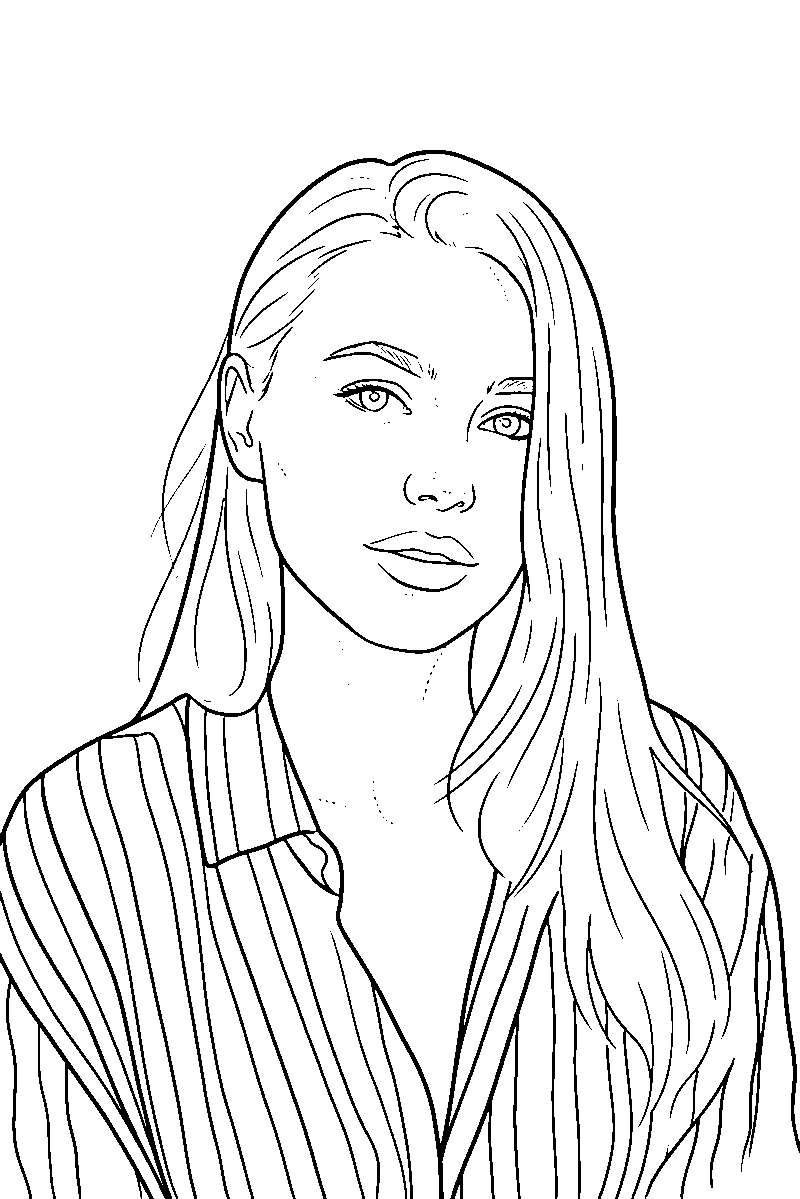
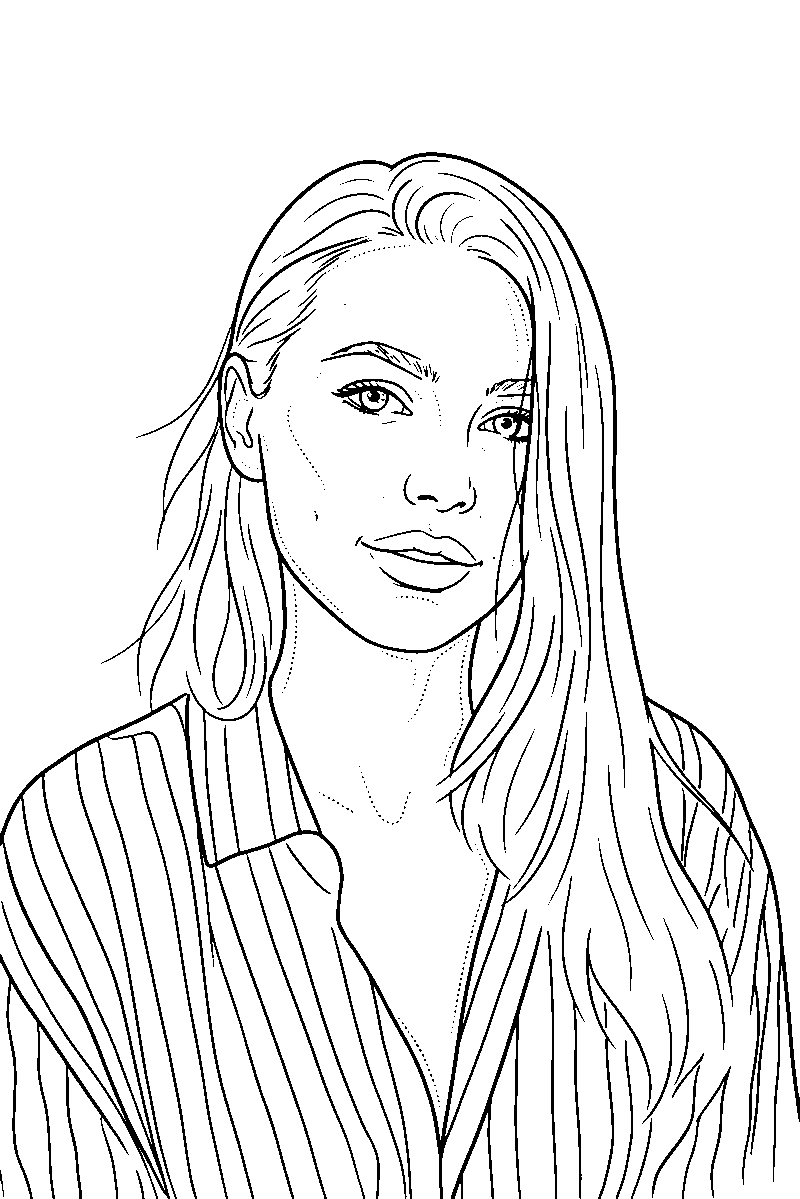
auto-commit for 1afdc5a2-3a2c-4278-aeb6-7df4dd373ddc

diff --git a/backend/server.py b/backend/server.py
@@ -2157,10 +2157,11 @@ FIDELITY — strict (applies to all detail levels):
 - NO solid black fills ANYWHERE. This applies even to features that appear dark in the source image: eyebrows, pupils, irises, nostrils, eye liner, hair shadows, and any deep shadow area MUST be drawn as OUTLINES ONLY, never filled with black or any solid color
 - NO crosshatching or sketch-style shading
 - LINE WEIGHT (applies to all detail levels — extremely important for readable tattoo transfer):
+  • This rule is about STROKE THICKNESS ONLY — it does NOT reduce the NUMBER, DENSITY, or COUNT of marks, dots, or contour lines. Keep the full amount of detail called for by the DETAIL LEVEL above; just draw each mark thinner.
   • Use the THINNEST possible fine line weight for ALL facial features: eyebrows, eyelids, eyelashes, iris, pupil, nose bridge, nostrils, lip edges, lip creases. These are small, tightly-spaced areas and thicker lines will bleed together and hide the true form when applied to skin — the goal is to reveal the form, not bury it under thick outlines
   • Use the THINNEST possible fine line weight for ALL interior hair texture / flow lines — noticeably finer than the hair silhouette; hair strands packed close together must remain clearly individual and not merge into each other
   • Main subject silhouette / outer body outline may be slightly heavier (thin-to-medium) but still never thick or bold
-  • Rule of thumb: if a region is small or has many lines near each other (hair interior, eyes, lips, nose), use the finest weight; only the outermost body/subject silhouette may be marginally heavier
+  • Rule of thumb: if a region is small or has many lines near each other (hair interior, eyes, lips, nose), use the finest stroke weight; only the outermost body/subject silhouette may be marginally heavier. Facial shading dots / contour guides on cheeks, jawline, nose bridge, brow ridges, under the eyes, and lip volumes must still be drawn in full — just at the thinnest weight.
 
 Style: Professional tattoo stencil suitable for thermal transfer paper"""
 
@@ -2347,10 +2348,11 @@ FIDELITY — strict (applies to all detail levels):
 - NO solid black fills ANYWHERE. This applies even to features that appear dark in the source image: eyebrows, pupils, irises, nostrils, eye liner, hair shadows, and any deep shadow area MUST be drawn as OUTLINES ONLY, never filled with black or any solid color
 - NO crosshatching or sketch-style shading
 - LINE WEIGHT (applies to all detail levels — extremely important for readable tattoo transfer):
+  • This rule is about STROKE THICKNESS ONLY — it does NOT reduce the NUMBER, DENSITY, or COUNT of marks, dots, or contour lines. Keep the full amount of detail called for by the DETAIL LEVEL above; just draw each mark thinner.
   • Use the THINNEST possible fine line weight for ALL facial features: eyebrows, eyelids, eyelashes, iris, pupil, nose bridge, nostrils, lip edges, lip creases. These are small, tightly-spaced areas and thicker lines will bleed together and hide the true form when applied to skin — the goal is to reveal the form, not bury it under thick outlines
   • Use the THINNEST possible fine line weight for ALL interior hair texture / flow lines — noticeably finer than the hair silhouette; hair strands packed close together must remain clearly individual and not merge into each other
   • Main subject silhouette / outer body outline may be slightly heavier (thin-to-medium) but still never thick or bold
-  • Rule of thumb: if a region is small or has many lines near each other (hair interior, eyes, lips, nose), use the finest weight; only the outermost body/subject silhouette may be marginally heavier
+  • Rule of thumb: if a region is small or has many lines near each other (hair interior, eyes, lips, nose), use the finest stroke weight; only the outermost body/subject silhouette may be marginally heavier. Facial shading dots / contour guides on cheeks, jawline, nose bridge, brow ridges, under the eyes, and lip volumes must still be drawn in full — just at the thinnest weight.
 
 Style: Professional tattoo stencil suitable for thermal transfer paper"""
 
